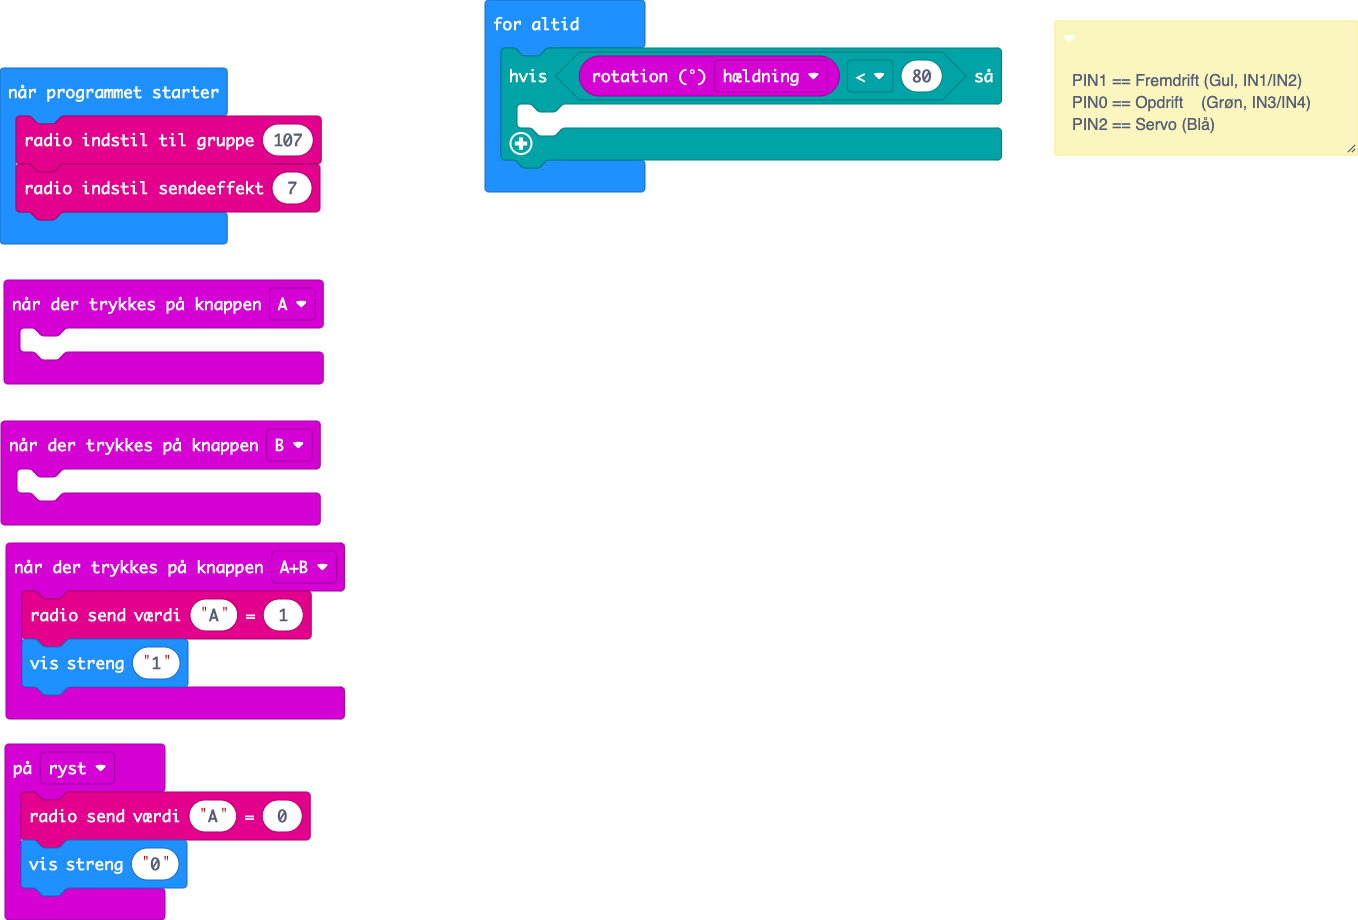
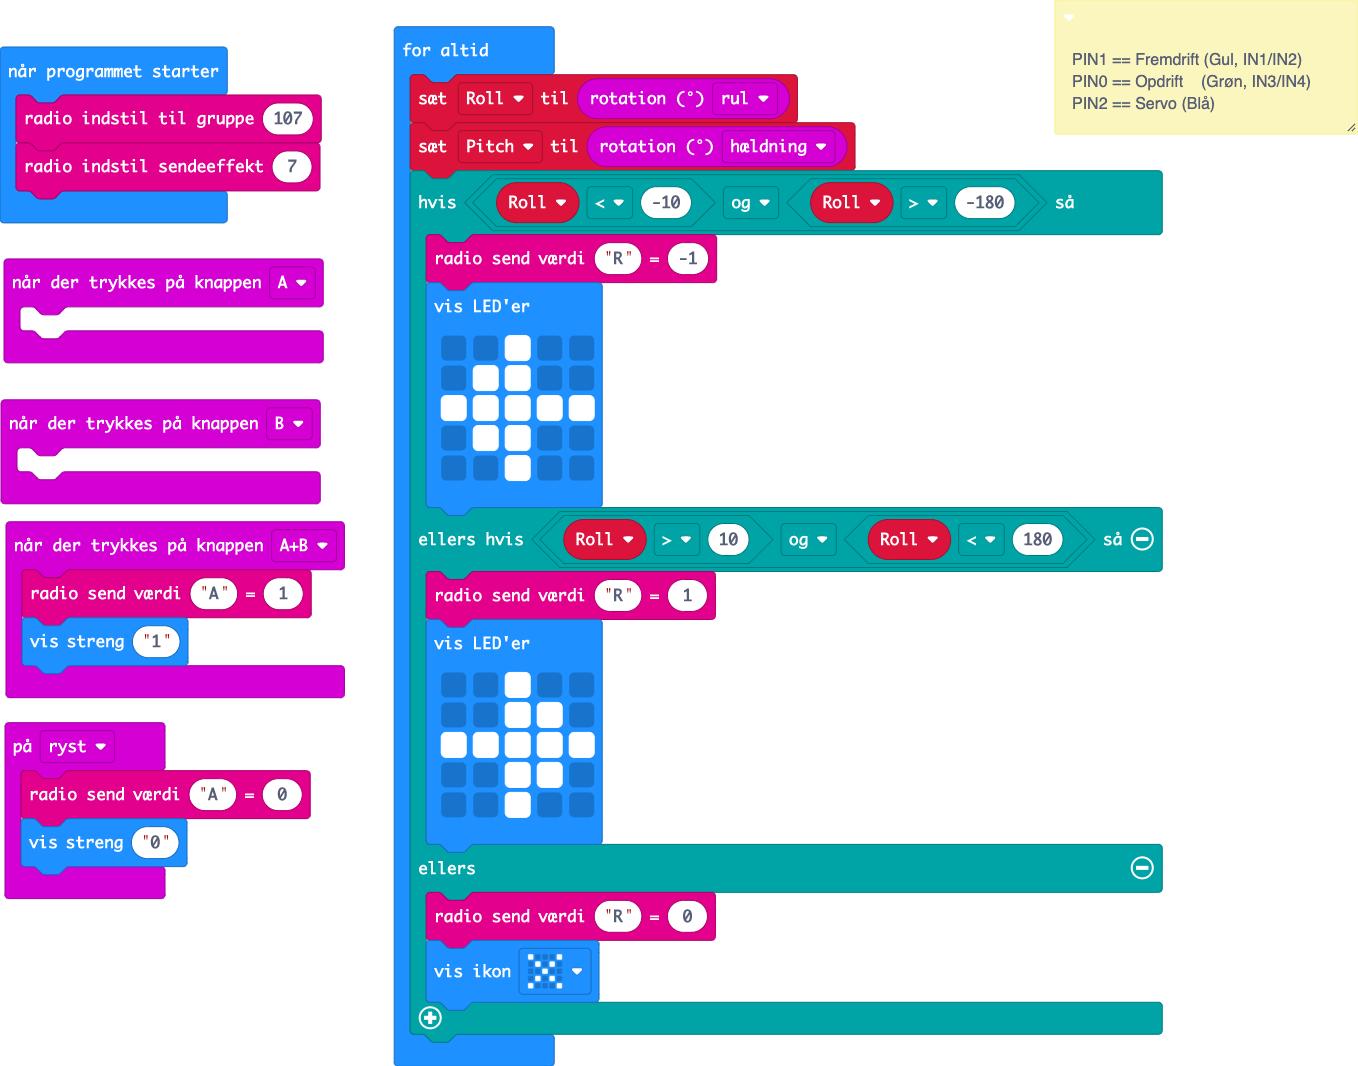
Opdater main.blocks, main.ts

diff --git a/main.ts b/main.ts
@@ -12,6 +12,8 @@ input.onButtonPressed(Button.AB, function () {
 input.onButtonPressed(Button.B, function () {
 	
 })
+let Pitch = 0
+let Roll = 0
 radio.setGroup(107)
 radio.setTransmitPower(7)
 /**
@@ -22,7 +24,28 @@ radio.setTransmitPower(7)
  * PIN2 == Servo (Blå)
  */
 basic.forever(function () {
-    if (input.rotation(Rotation.Pitch) < 80) {
-    	
+    Roll = input.rotation(Rotation.Roll)
+    Pitch = input.rotation(Rotation.Pitch)
+    if (Roll < -10 && Roll > -180) {
+        radio.sendValue("R", -1)
+        basic.showLeds(`
+            . . # . .
+            . # # . .
+            # # # # #
+            . # # . .
+            . . # . .
+            `)
+    } else if (Roll > 10 && Roll < 180) {
+        radio.sendValue("R", 1)
+        basic.showLeds(`
+            . . # . .
+            . . # # .
+            # # # # #
+            . . # # .
+            . . # . .
+            `)
+    } else {
+        radio.sendValue("R", 0)
+        basic.showIcon(IconNames.No)
     }
 })
